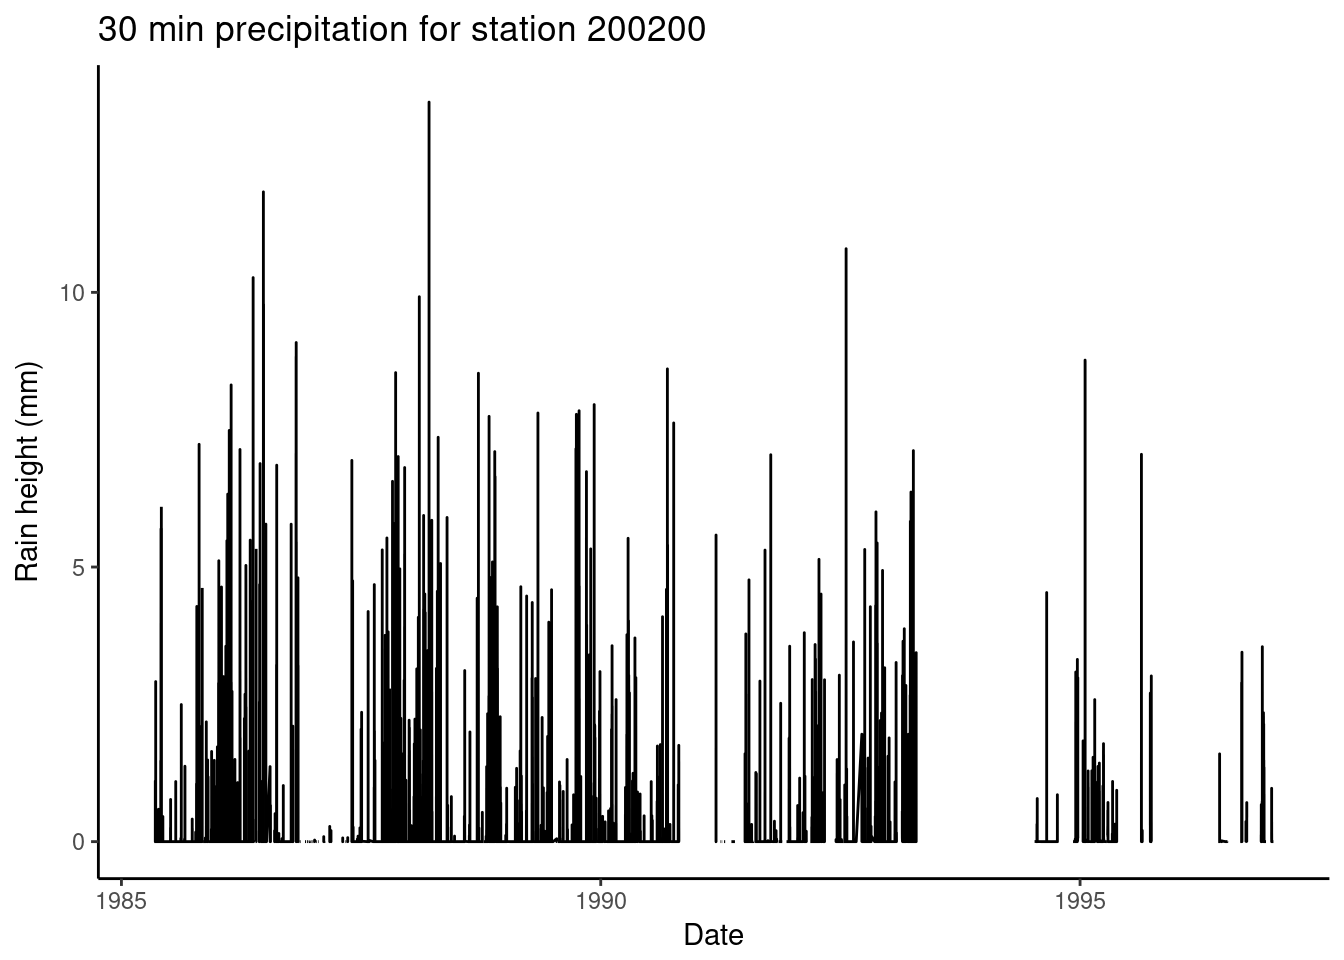
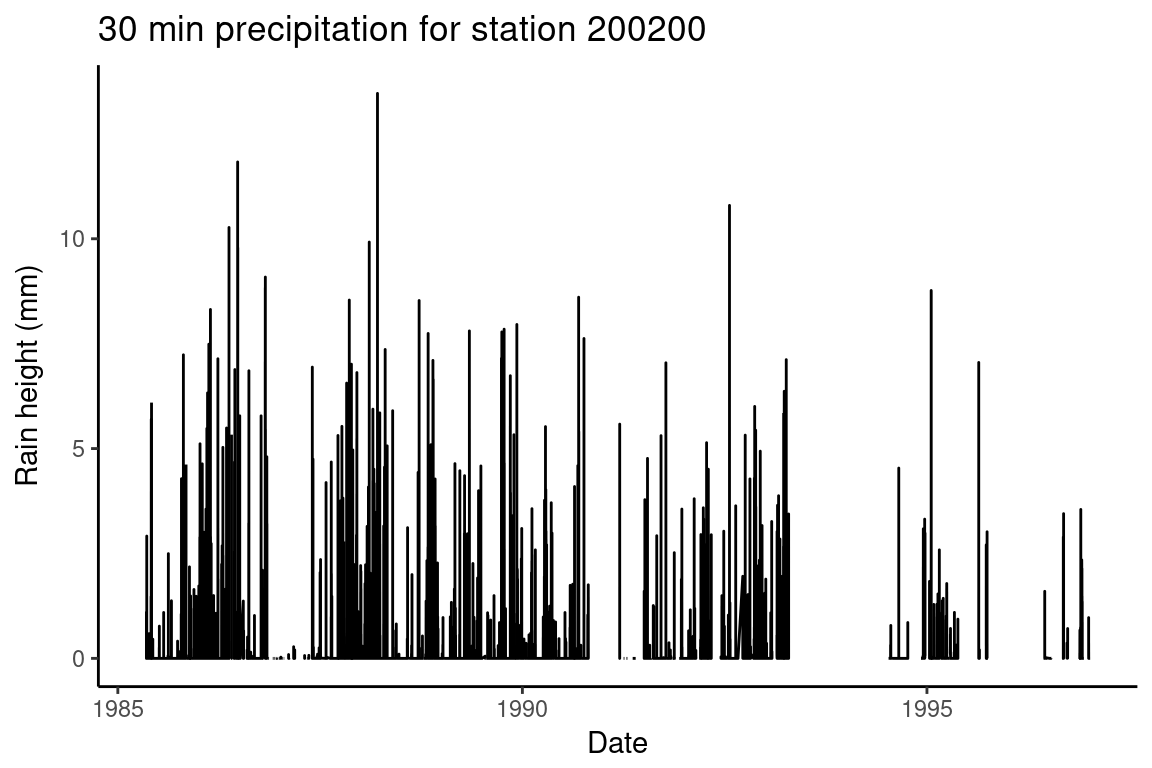
write find_stations:  * doc  * test
updates in readme
 * citation
 * plot size

update site

Changed region(s): [[0.0312, 0.0938, 1.0, 1.0], [0.0625, 0.0, 0.625, 0.0625], [0.0, 0.3438, 0.0312, 0.6562]]

diff --git a/docs/reference/find_stations.html b/docs/reference/find_stations.html
@@ -1,0 +1,182 @@
+<!-- Generated by pkgdown: do not edit by hand -->
+<!DOCTYPE html>
+<html>
+  <head>
+  <meta charset="utf-8">
+<meta http-equiv="X-UA-Compatible" content="IE=edge">
+<meta name="viewport" content="width=device-width, initial-scale=1.0">
+
+<title>Find nearest stations using a point's coordinates — find_stations • hydroscoper</title>
+
+<!-- jquery -->
+<script src="https://code.jquery.com/jquery-3.1.0.min.js" integrity="sha384-nrOSfDHtoPMzJHjVTdCopGqIqeYETSXhZDFyniQ8ZHcVy08QesyHcnOUpMpqnmWq" crossorigin="anonymous"></script>
+<!-- Bootstrap -->
+
+<link href="https://maxcdn.bootstrapcdn.com/bootstrap/3.3.7/css/bootstrap.min.css" rel="stylesheet" integrity="sha384-BVYiiSIFeK1dGmJRAkycuHAHRg32OmUcww7on3RYdg4Va+PmSTsz/K68vbdEjh4u" crossorigin="anonymous">
+<script src="https://maxcdn.bootstrapcdn.com/bootstrap/3.3.7/js/bootstrap.min.js" integrity="sha384-Tc5IQib027qvyjSMfHjOMaLkfuWVxZxUPnCJA7l2mCWNIpG9mGCD8wGNIcPD7Txa" crossorigin="anonymous"></script>
+
+<!-- Font Awesome icons -->
+<link href="https://maxcdn.bootstrapcdn.com/font-awesome/4.6.3/css/font-awesome.min.css" rel="stylesheet" integrity="sha384-T8Gy5hrqNKT+hzMclPo118YTQO6cYprQmhrYwIiQ/3axmI1hQomh7Ud2hPOy8SP1" crossorigin="anonymous">
+
+<!-- clipboard.js -->
+<script src="https://cdnjs.cloudflare.com/ajax/libs/clipboard.js/1.7.1/clipboard.min.js" integrity="sha384-cV+rhyOuRHc9Ub/91rihWcGmMmCXDeksTtCihMupQHSsi8GIIRDG0ThDc3HGQFJ3" crossorigin="anonymous"></script>
+
+<!-- pkgdown -->
+<link href="../pkgdown.css" rel="stylesheet">
+<script src="../jquery.sticky-kit.min.js"></script>
+<script src="../pkgdown.js"></script>
+<meta property="og:title" content="Find nearest stations using a point's coordinates — find_stations" />
+
+<meta property="og:description" content="find_stations returns a tibble with the stations'
+distances using a given point's longitude and latitude values. This function
+uses the Haversine formula for distance calculation in km." />
+<meta name="twitter:card" content="summary" />
+<!-- mathjax -->
+<script src='https://mathjax.rstudio.com/latest/MathJax.js?config=TeX-AMS-MML_HTMLorMML'></script>
+
+<!--[if lt IE 9]>
+<script src="https://oss.maxcdn.com/html5shiv/3.7.3/html5shiv.min.js"></script>
+<script src="https://oss.maxcdn.com/respond/1.4.2/respond.min.js"></script>
+<![endif]-->
+
+
+  </head>
+
+  <body>
+    <div class="container template-reference-topic">
+      <header>
+      <div class="navbar navbar-default navbar-fixed-top" role="navigation">
+  <div class="container">
+    <div class="navbar-header">
+      <button type="button" class="navbar-toggle collapsed" data-toggle="collapse" data-target="#navbar">
+        <span class="icon-bar"></span>
+        <span class="icon-bar"></span>
+        <span class="icon-bar"></span>
+      </button>
+      <a class="navbar-brand" href="../index.html">hydroscoper</a>
+    </div>
+    <div id="navbar" class="navbar-collapse collapse">
+      <ul class="nav navbar-nav">
+        <li>
+  <a href="../index.html">
+    <span class="fa fa-home fa-lg"></span>
+     
+  </a>
+</li>
+<li>
+  <a href="../reference/index.html">Reference</a>
+</li>
+<li class="dropdown">
+  <a href="#" class="dropdown-toggle" data-toggle="dropdown" role="button" aria-expanded="false">
+    Articles
+     
+    <span class="caret"></span>
+  </a>
+  <ul class="dropdown-menu" role="menu">
+    <li>
+      <a href="../articles/intro_hydroscoper.html">An introduction to `hydroscoper`</a>
+    </li>
+    <li>
+      <a href="../articles/stations_with_data.html">Using `hydroscoper`'s data</a>
+    </li>
+  </ul>
+</li>
+<li>
+  <a href="../news/index.html">Changelog</a>
+</li>
+      </ul>
+      
+      <ul class="nav navbar-nav navbar-right">
+        <li>
+  <a href="https://github.com/ropensci/hydroscoper">
+    <span class="fa fa-github fa-lg"></span>
+     
+  </a>
+</li>
+      </ul>
+    </div><!--/.nav-collapse -->
+  </div><!--/.container -->
+</div><!--/.navbar -->
+
+      
+      </header>
+
+      <div class="row">
+  <div class="col-md-9 contents">
+    <div class="page-header">
+    <h1>Find nearest stations using a point's coordinates</h1>
+    <small>Source: <a href='https:/github.com/ropensci/hydroscoper/blob/master/R/find_stations.R'><code>R/find_stations.R</code></a></small>
+    </div>
+
+    
+    <p><code>find_stations</code> returns a tibble with the stations'
+distances using a given point's longitude and latitude values. This function
+uses the Haversine formula for distance calculation in km.</p>
+    
+
+    <pre class="usage"><span class='fu'>find_stations</span>(<span class='kw'>longitude</span> <span class='kw'>=</span> <span class='fl'>24</span>, <span class='kw'>latitude</span> <span class='kw'>=</span> <span class='fl'>38</span>)</pre>
+    
+    <h2 class="hasAnchor" id="arguments"><a class="anchor" href="#arguments"></a> Arguments</h2>
+    <table class="ref-arguments">
+    <colgroup><col class="name" /><col class="desc" /></colgroup>
+    <tr>
+      <th>longitude</th>
+      <td><p>a numeric value in degrees</p></td>
+    </tr>
+    <tr>
+      <th>latitude</th>
+      <td><p>a numeric value in degrees</p></td>
+    </tr>
+    </table>
+    
+    <h2 class="hasAnchor" id="value"><a class="anchor" href="#value"></a>Value</h2>
+
+    <p>If the given longitude is in [24, 38] and the latitude is in [34, 42]
+(i.e. are valid values for Greece) returns are ordered tibble with the
+station_id, name, subdomain and distance values in km. The station's data
+that are used  come from the `stations` dataset. Otherwise returns an error
+message.</p>
+    
+
+    <h2 class="hasAnchor" id="examples"><a class="anchor" href="#examples"></a>Examples</h2>
+    <pre class="examples"><div class='input'>
+<span class='co'># find the five nearest stations to a point near Thessaloniki,</span>
+<span class='co'># (lon, lat) = (22.97, 40.60)</span>
+<span class='fu'>head</span>(<span class='fu'>find_stations</span>(<span class='fl'>22.97</span>, <span class='fl'>40.60</span>), <span class='fl'>5</span>)</div><div class='output co'>#&gt; # A tibble: 5 x 4
+#&gt;   station_id name                   subdomain distance
+#&gt;        &lt;int&gt; &lt;chr&gt;                  &lt;chr&gt;        &lt;dbl&gt;
+#&gt; 1      20158 MS Thessalonikes       emy           2.96
+#&gt; 2      20201 A.M. SCHOLE THES/NIKES emy           3.97
+#&gt; 3      10032 THESSALONIKE           kyy           4.56
+#&gt; 4      20032 SEDES                  emy           6.88
+#&gt; 5      20033 MIKRA (THES/KES)       emy           8.07</div><div class='input'>
+</div></pre>
+  </div>
+  <div class="col-md-3 hidden-xs hidden-sm" id="sidebar">
+    <h2>Contents</h2>
+    <ul class="nav nav-pills nav-stacked">
+      <li><a href="#arguments">Arguments</a></li>
+      
+      <li><a href="#value">Value</a></li>
+      
+      <li><a href="#examples">Examples</a></li>
+    </ul>
+
+  </div>
+</div>
+
+      <footer>
+      <div class="copyright">
+  <p>Developed by Konstantinos Vantas.</p>
+</div>
+
+<div class="pkgdown">
+  <p>Site built with <a href="http://pkgdown.r-lib.org/">pkgdown</a>.</p>
+</div>
+
+      </footer>
+   </div>
+
+  </body>
+</html>
+

diff --git a/docs/index.html b/docs/index.html
@@ -159,7 +159,7 @@ ts_raw
 <span class="st">  </span><span class="kw"><a href="http://www.rdocumentation.org/packages/ggplot2/topics/labs">labs</a></span>(<span class="dt">title=</span> <span class="st">"30 min precipitation for station 200200"</span>,
        <span class="dt">x=</span><span class="st">"Date"</span>, <span class="dt">y =</span> <span class="st">"Rain height (mm)"</span>)<span class="op">+</span>
 <span class="st">  </span><span class="kw"><a href="http://www.rdocumentation.org/packages/ggplot2/topics/ggtheme">theme_classic</a></span>()</code></pre></div>
-<p><img src="/home/kostis/Projects/Rprojects/hydroscoper/man/figures/README-plot_time_series-1.png" width="672"></p>
+<p><img src="/home/kostis/Projects/Rprojects/hydroscoper/man/figures/README-plot_time_series-1.png" width="576"></p>
 </div>
 <div id="meta" class="section level2">
 <h2 class="hasAnchor">
@@ -173,15 +173,26 @@ ts_raw
 </ul>
 </li>
 <li>
-<p>Get citation information for <code>hydroscoper</code> in R by running:</p>
-<pre><code>citation("hydroscoper")</code></pre>
+<p>To cite <code>hydroscoper</code> please use:</p>
+<pre><code>Vantas K., (2018). hydroscoper: R interface to the Greek National Data Bank for
+Hydrological and Meteorological Information. Journal of Open Source Software,
+3(23), 625 DOI:10.21105/joss.00625</code></pre>
+<p>or the BibTeX entry:</p>
+<pre><code>@Article{kvantas2018,
+author = {Konstantinos Vantas},
+title = {{hydroscoper}: R interface to the Greek National Data Bank for Hydrological and Meteorological Information},
+doi = {10.21105/joss.00625},
+year = {2018},
+month = {mar},
+publisher = {The Open Journal},
+volume = {2},
+number = {23},
+journal = {The Journal of Open Source Software}
+}</code></pre>
+<h2 id="references">References</h2>
+<p><a href="http://www.hydroscope.gr/">Hydroscope</a></p>
 </li>
 </ul>
-</div>
-<div id="references" class="section level2">
-<h2 class="hasAnchor">
-<a href="#references" class="anchor"></a>References</h2>
-<p><a href="http://www.hydroscope.gr/">Hydroscope</a></p>
 <p><a href="https://ropensci.org"><img src="http://ropensci.org/public_images/github_footer.png" alt="ropensci_footer"></a></p>
 </div>
 </div>

diff --git a/docs/reference/index.html b/docs/reference/index.html
@@ -116,6 +116,20 @@
       <tbody>
         <tr>
           <th colspan="2">
+            <h2 id="section-find-data" class="hasAnchor"><a href="#section-find-data" class="anchor"></a>Find Data</h2>
+            <p class="section-desc"><p>Functions that can be used to find data</p></p>
+          </th>
+        </tr>
+        <tr>
+          <!--  -->
+          <td>
+            <p><code><a href="find_stations.html">find_stations()</a></code> </p>
+          </td>
+          <td><p>Find nearest stations using a point's coordinates</p></td>
+        </tr>
+      </tbody><tbody>
+        <tr>
+          <th colspan="2">
             <h2 id="section-download-tables" class="hasAnchor"><a href="#section-download-tables" class="anchor"></a>Download tables</h2>
             <p class="section-desc"><p>Funtions that retrieve tibbles with Hydroscope’s data for a given data source</p></p>
           </th>
@@ -195,6 +209,7 @@
   <div class="col-md-3 hidden-xs hidden-sm" id="sidebar">
     <h2>Contents</h2>
     <ul class="nav nav-pills nav-stacked">
+      <li><a href="#section-find-data">Find Data</a></li>
       <li><a href="#section-download-tables">Download tables</a></li>
       <li><a href="#section-download-time-series">Download time series</a></li>
       <li><a href="#section-miscellaneous-functions">Miscellaneous functions</a></li>

diff --git a/docs/articles/stations_with_data.html b/docs/articles/stations_with_data.html
@@ -81,7 +81,7 @@
       <h1>Using <code>hydroscoper</code>’s data</h1>
                         <h4 class="author">Konstantinos Vantas</h4>
             
-            <h4 class="date">2018-03-17</h4>
+            <h4 class="date">2018-04-03</h4>
       
       <small>Source: <a href="https:/github.com/ropensci/hydroscoper/blob/master/vignettes/stations_with_data.Rmd"><code>vignettes/stations_with_data.Rmd</code></a></small>
 

diff --git a/docs/articles/intro_hydroscoper.html b/docs/articles/intro_hydroscoper.html
@@ -82,7 +82,7 @@
 </h1>
                         <h4 class="author">Konstantinos Vantas</h4>
             
-            <h4 class="date">2018-03-17</h4>
+            <h4 class="date">2018-04-03</h4>
       
       <small>Source: <a href="https:/github.com/ropensci/hydroscoper/blob/master/vignettes/intro_hydroscoper.Rmd"><code>vignettes/intro_hydroscoper.Rmd</code></a></small>
 

diff --git a/README.md b/README.md
@@ -90,13 +90,29 @@ Meta
 -   Licence:
     -   All code is licensed MIT.
     -   All data are from the public data sources in <http://www.hydroscope.gr/>.
--   Get citation information for `hydroscoper` in R by running:
+-   To cite `hydroscoper` please use:
 
-        citation("hydroscoper")
+        Vantas K., (2018). hydroscoper: R interface to the Greek National Data Bank for
+        Hydrological and Meteorological Information. Journal of Open Source Software,
+        3(23), 625 DOI:10.21105/joss.00625
 
-References
-----------
+    or the BibTeX entry:
 
-[Hydroscope](http://www.hydroscope.gr/)
+        @Article{kvantas2018,
+        author = {Konstantinos Vantas},
+        title = {{hydroscoper}: R interface to the Greek National Data Bank for Hydrological and Meteorological Information},
+        doi = {10.21105/joss.00625},
+        year = {2018},
+        month = {mar},
+        publisher = {The Open Journal},
+        volume = {2},
+        number = {23},
+        journal = {The Journal of Open Source Software}
+        }
+
+    References
+    ----------
+
+    [Hydroscope](http://www.hydroscope.gr/)
 
 [![ropensci\_footer](http://ropensci.org/public_images/github_footer.png)](https://ropensci.org)
